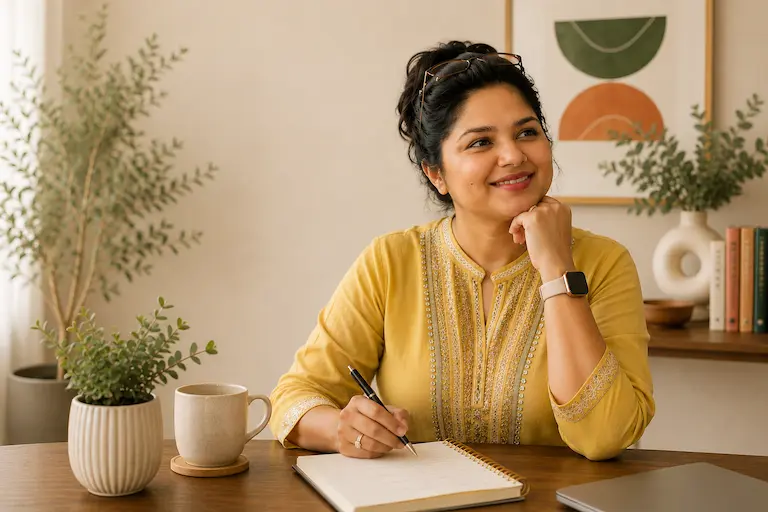
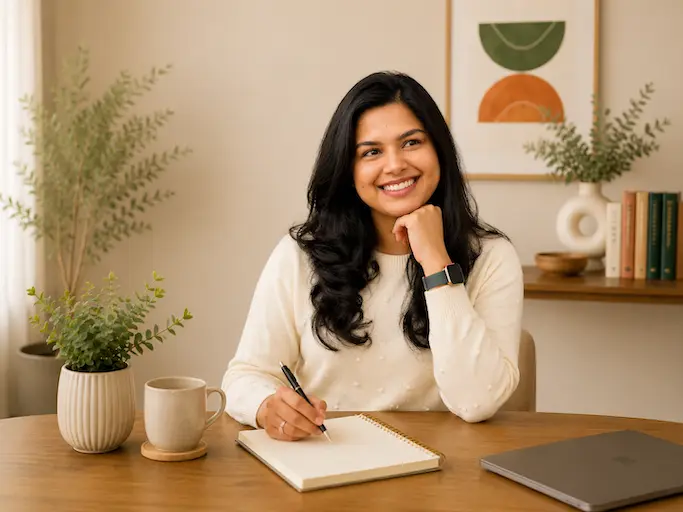
Adding original images

diff --git a/apps/annieali/app/page.tsx b/apps/annieali/app/page.tsx
@@ -58,7 +58,7 @@ export default function Home() {
 
             {/* Hero image for mobile/tablet only */}
             <Image
-                src="/images/hero-background.webp"
+                src="/images/hero-background-mobile.webp"
                 alt="Annie Ali"
                 width={1717}
                 height={916}
